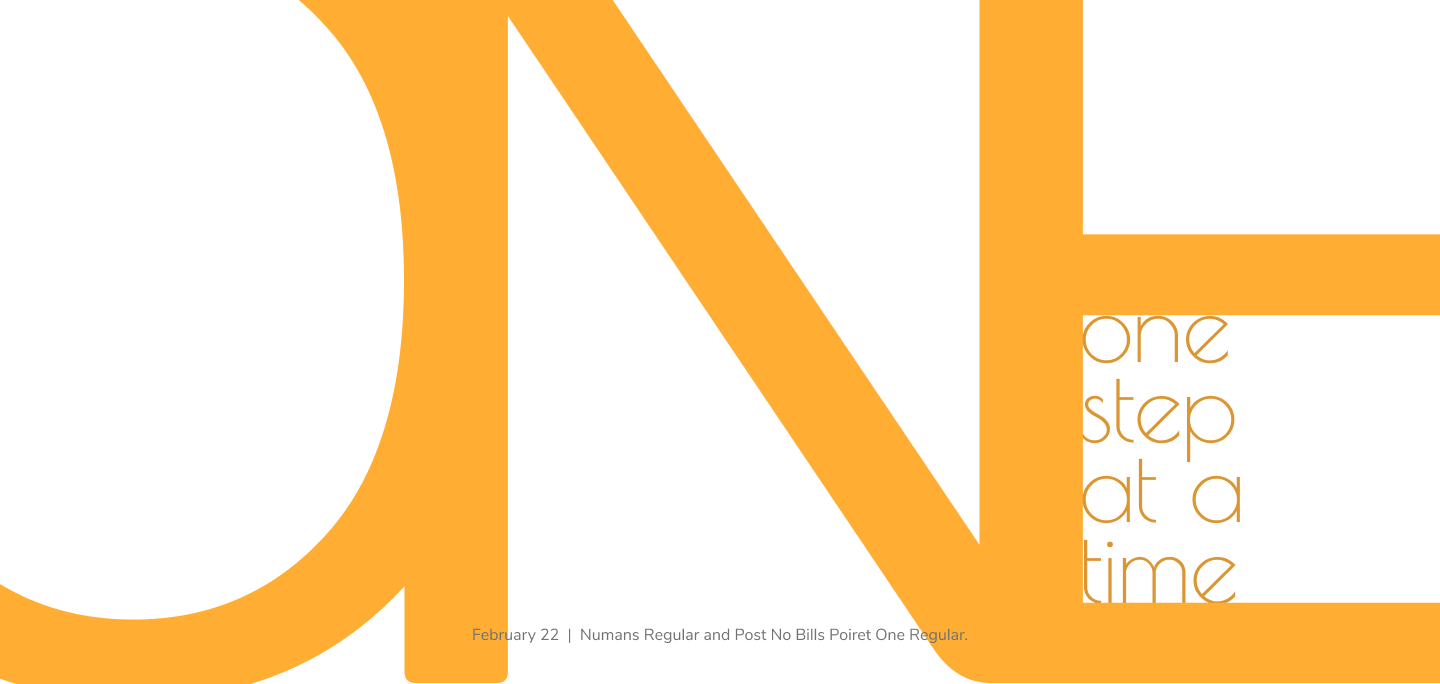
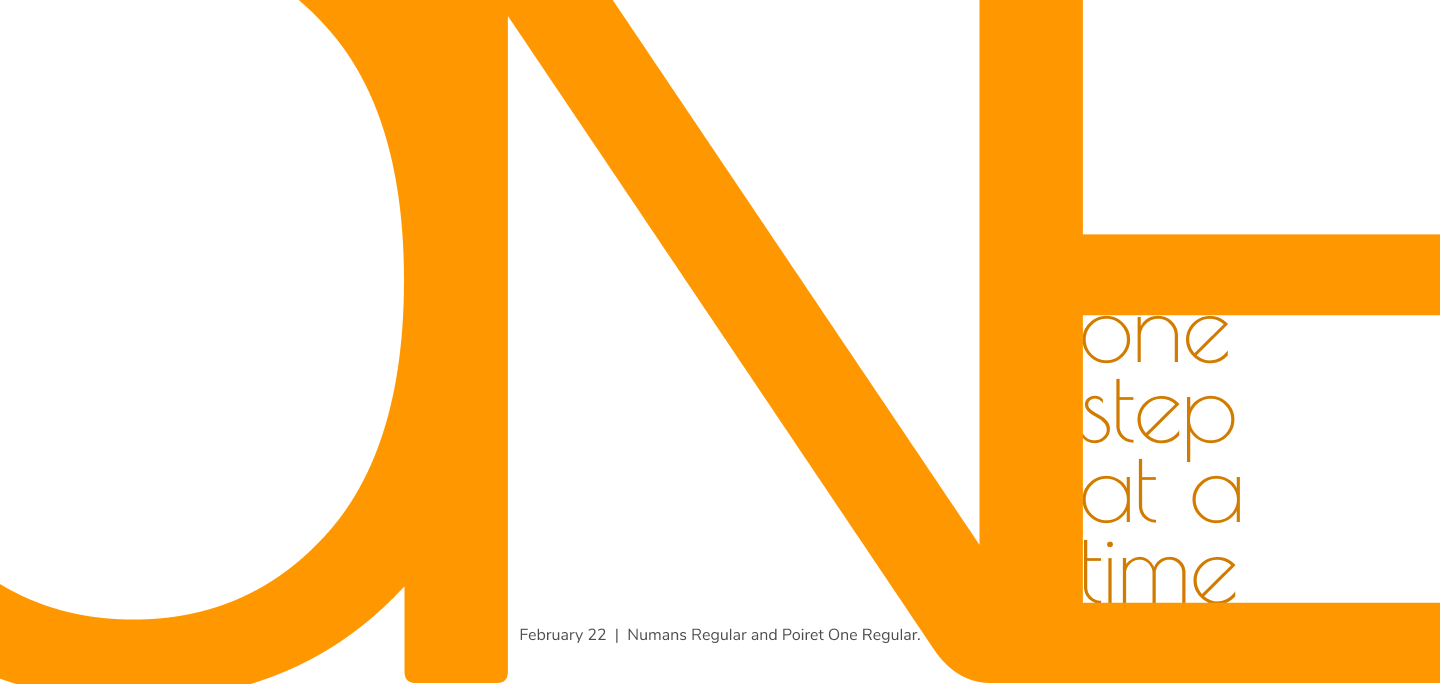
add feb fonts feb 26

diff --git a/febfonts.html b/febfonts.html
@@ -131,6 +131,9 @@
         <div class="feb-font-img bio-image">
           <img src="assets/Feb-25.png" alt="Feb-25">
         </div>
+        <div class="feb-font-img bio-image">
+          <img src="assets/Feb-26.png" alt="Feb-26">
+        </div>
       </section>
     </div>
 
